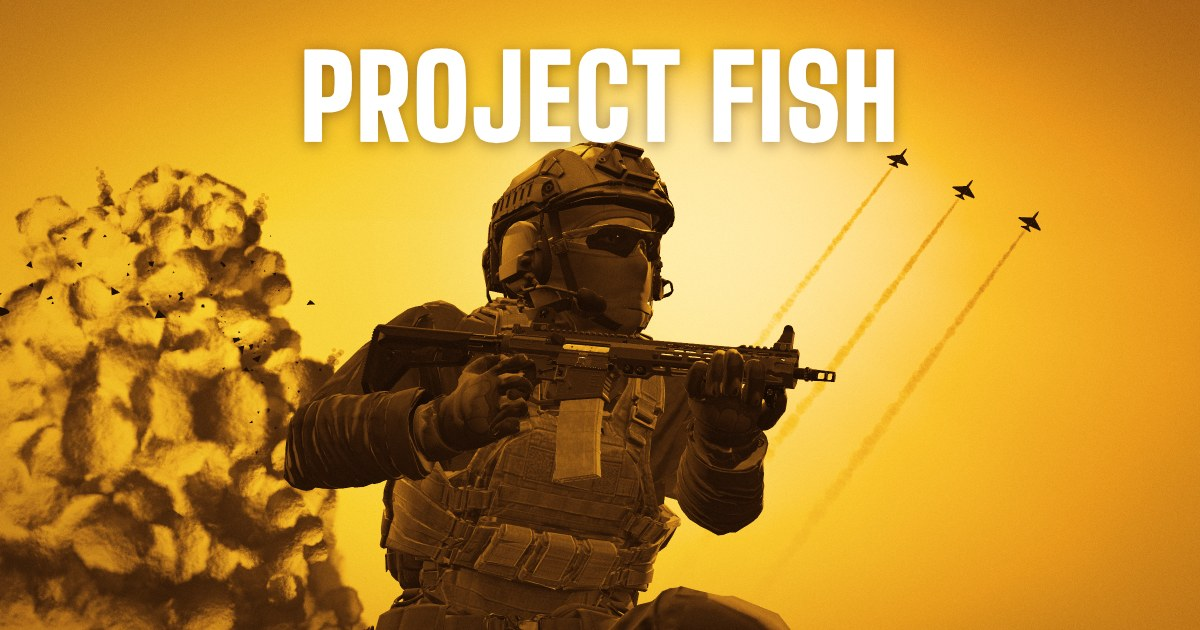
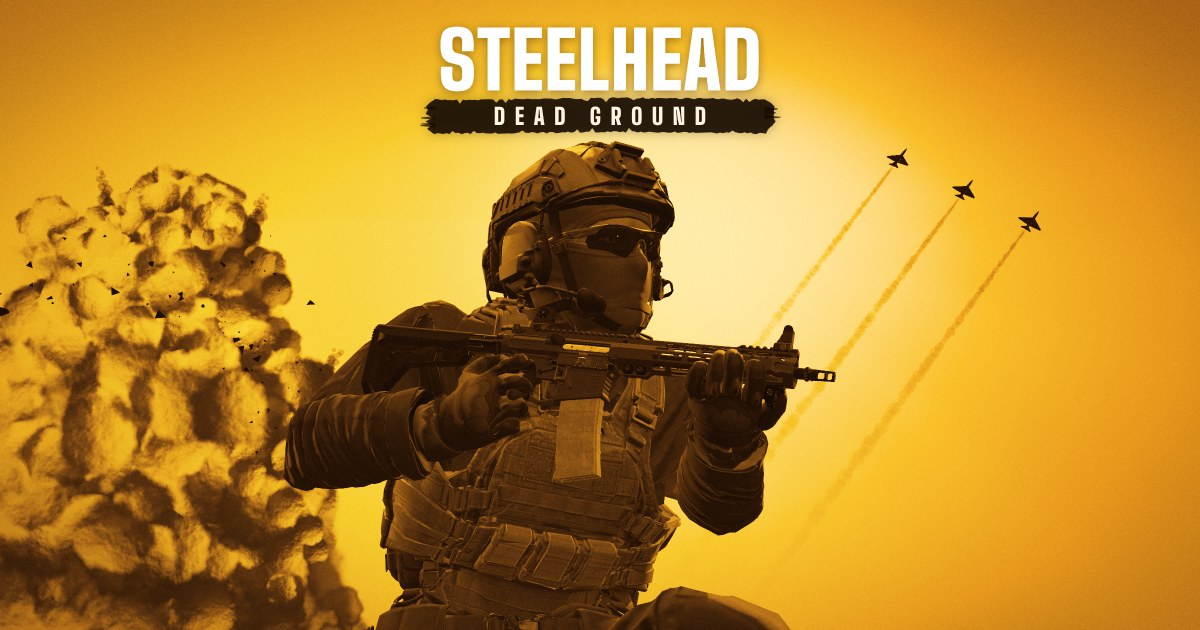
Copy e60a32e: the game is now Steelhead: Dead Ground (title, cover and arcade tile)
Claude-Session: https://claude.ai/code/session_01BFsvpXDjNXk4wDfLxkJjEb

Changed region(s): [[0.2467, 0.0302, 0.7708, 0.2413]]

diff --git a/games.js b/games.js
@@ -1,4 +1,4 @@
-// The test site's list of games: Project Fish (in project-fish/ here) among every game on the real arcade.
+// The test site's list of games: Steelhead: Dead Ground (in project-fish/ here) among every game on the real arcade.
 // The other games are copied from the live games.js (title, category, tagline, badges); their covers load from
 // the real site and their tiles open the real site's play page for them (href). Nothing here needs a server:
 // no accounts, no live counters, no stat() functions.
@@ -19,7 +19,7 @@ function readSave(key, json) {
 window.GAMES = [
   {
     id: "project-fish",
-    title: "Project Fish",
+    title: "Steelhead: Dead Ground",
     category: "Shooter",
     tagline: "An early look at a first-person shooter: twelve real guns, your own loadout and outfit, and guns taken apart part by part.",
     description: "Phase 1 of a multiplayer first-person shooter. Sprint, slide, climb and dive round a test range with twelve guns, from pistols to the AK-74M and the SPAS-12, change your outfit and attachments, and watch guns taken apart.",
@@ -301,7 +301,7 @@ window.GAMES = [
 
 // What's new on the home page, newest first
 window.NEWS = [
-  {"date":"2026-11-09","game":"project-fish","text":"New game: Project Fish. An early look at a first-person shooter with twelve guns, a loadout and gun breakdowns."},
+  {"date":"2026-11-09","game":"project-fish","text":"New game: Steelhead: Dead Ground. An early look at a first-person shooter with twelve guns, a loadout and gun breakdowns."},
   {"date":"2026-11-10","game":"turn-turn-turn","text":"Turn! Turn! TURN! 1.2.1: fixed versus calls showing \"undefined\" on the driver's screen instead of the navigator's call."},
   {"date":"2026-11-09","game":"turn-turn-turn","text":"Turn! Turn! TURN! 1.2: quick match finds you a crew partner or a whole race, and the new versus mode puts 4 to 6 players in crews of two on the same stage at once (just for fun, not on the leaderboard). Versus drivers can wind the window down and show the car behind what they think of it."},
   {"date":"2026-11-09","game":"turn-turn-turn","text":"Turn! Turn! TURN! 1.1.1: fixed the main menu popping up over a running stage for the player who joined the crew, plus a few smaller crew fixes."},
@@ -314,7 +314,7 @@ window.NEWS = [
 
 // What this browser has played, for "Continue playing" and the NEW / UPDATED badges, worked out as the real
 // site does. This site shares its browser storage with the real arcade (same address), so it reads the real
-// site's list ('arcade-played') but only ever writes its own ('arcade-test-played'), for Project Fish.
+// site's list ('arcade-played') but only ever writes its own ('arcade-test-played'), for Steelhead: Dead Ground.
 window.Arcade = {
   played() { return Object.assign({}, readSave('arcade-played', true) || {}, readSave('arcade-test-played', true) || {}); },
   markPlayed(id) {
@@ -336,5 +336,5 @@ window.Arcade = {
   stat() { return null; },
 };
 
-// Where a game's tile goes: the real site's play page, or this site's for Project Fish
+// Where a game's tile goes: the real site's play page, or this site's for Steelhead: Dead Ground
 window.playUrl = g => g.href || 'play.html?game=' + encodeURIComponent(g.id);

diff --git a/index.html b/index.html
@@ -20,7 +20,7 @@
 })();
 </script>
 <title>The Arcade · test site</title>
-<meta name="description" content="Test site: a preview of Project Fish on The Arcade.">
+<meta name="description" content="Test site: a preview of Steelhead: Dead Ground on The Arcade.">
 <meta name="robots" content="noindex">
 <meta name="theme-color" content="#0f0d1f">
 <link rel="icon" href="logo.svg" type="image/svg+xml">
@@ -113,7 +113,7 @@
 
 <footer class="foot">
   <p>The Arcade · <span id="count"></span></p>
-  <p class="test-note">Test site: preview of Project Fish on The Arcade. The other games open on the <a href="https://noah-and-lars.github.io/projects/">real arcade</a>.</p>
+  <p class="test-note">Test site: preview of Steelhead: Dead Ground on The Arcade. The other games open on the <a href="https://noah-and-lars.github.io/projects/">real arcade</a>.</p>
 </footer>
 
 <script src="games.js?v=1"></script>
@@ -125,7 +125,7 @@ let active = 'All';
 
 $('count').textContent = GAMES.length + (GAMES.length === 1 ? ' game' : ' games');
 
-// Featured: Project Fish (pinned, the way the real site pins its newest release)
+// Featured: Steelhead: Dead Ground (pinned, the way the real site pins its newest release)
 function renderFeature() {
   const g = byId['project-fish'] || [...GAMES].sort((a, b) => Date.parse(b.updated) - Date.parse(a.updated))[0];
   const badge = Arcade.badge(g);
@@ -140,7 +140,7 @@ function renderFeature() {
       <span class="btn big"><span aria-hidden="true">▶</span> Play now</span>
     </div>`;
   f.querySelector('img').src = g.thumb;
-  f.querySelector('.eyebrow').textContent = g.id === 'project-fish' ? 'NEW GAME: Project Fish' : badge === 'NEW' ? 'New game' : badge === 'UPDATED' ? 'Just updated' : 'Featured';
+  f.querySelector('.eyebrow').textContent = g.id === 'project-fish' ? 'NEW GAME: Steelhead' : badge === 'NEW' ? 'New game' : badge === 'UPDATED' ? 'Just updated' : 'Featured';
   f.querySelector('h1').textContent = g.title;
   f.querySelector('.feature-tag').textContent = g.tagline;
   const meta = f.querySelector('.feature-meta');
@@ -202,7 +202,7 @@ function renderNews() {
 
 function render() {
   const q = $('search').value.trim().toLowerCase();
-  // the real site's order for the All games grid, with Project Fish first
+  // the real site's order for the All games grid, with Steelhead: Dead Ground first
   const FIRST = ['project-fish', 'siege', 'cube-assault', 'havoc-bay', 'turn-turn-turn', 'krill-dive', 'gamble-your-life-away', 'card-royale', 'uno', 'russian-roulette', 'free-criminal', 'football', 'chess', 'poly-racer', 'rocket-rivals', 'bull-run', 'cube-tower-defense', 'block-drop'];
   const rank = g => { const i = FIRST.indexOf(g.id); return i < 0 ? FIRST.length + GAMES.indexOf(g) : i; };
   const list = [...GAMES].sort((a, b) => rank(a) - rank(b)).filter(g =>

diff --git a/project-fish/index.html b/project-fish/index.html
@@ -3,12 +3,12 @@
   <head>
     <meta charset="utf-8" />
     <meta name="viewport" content="width=device-width, initial-scale=1" />
-    <title>Project Fish</title>
-    <meta property="og:title" content="Project Fish">
+    <title>Steelhead: Dead Ground</title>
+    <meta property="og:title" content="Steelhead: Dead Ground">
     <meta property="og:image" content="assets/cover/og.jpg">
     <meta property="og:image:width" content="1200">
     <meta property="og:image:height" content="630">
-    <meta name="description" content="Project Fish: a tactical first-person shooter for the browser, built from scratch with three.js." />
+    <meta name="description" content="Steelhead: Dead Ground, a tactical first-person shooter for the browser, built from scratch with three.js." />
     <meta name="theme-color" content="#050506" />
     <link rel="preconnect" href="https://fonts.googleapis.com" />
     <link rel="preconnect" href="https://fonts.gstatic.com" crossorigin />
@@ -38,7 +38,7 @@
       <div class="menu-left">
         <header class="menu-brand">
           <p class="menu-kicker">Tactical shooter <span>·</span> in the browser</p>
-          <h1 class="menu-title"><span class="word">Project</span> <span class="word">Fish</span></h1>
+          <h1 class="menu-title"><span class="menu-title-name">Steelhead</span><span class="menu-title-colon">: </span><span class="menu-title-sub">Dead Ground</span></h1>
           <p class="menu-tag"><span>Phase 1</span> Baseplate</p>
         </header>
         <nav class="menu-list" aria-label="Main menu">
@@ -57,7 +57,7 @@
         </nav>
         <p class="menu-status" role="status"></p>
       </div>
-      <div class="menu-version"><span>Project Fish · Phase 1</span><span class="menu-build"></span></div>
+      <div class="menu-version"><span>Steelhead: Dead Ground · Phase 1</span><span class="menu-build"></span></div>
       <div class="menu-keys" aria-hidden="true"><span><kbd>↑</kbd><kbd>↓</kbd> Select</span><span><kbd>Enter</kbd> Choose</span><span><kbd>Esc</kbd> Back</span></div>
 
       <section class="menu-panel" data-panel="controls" role="dialog" aria-label="Controls" tabindex="-1" hidden>

diff --git a/project-fish/src/menu/menu.css b/project-fish/src/menu/menu.css
@@ -132,7 +132,14 @@
   color: var(--menu-dim);
 }
 
+/* The title: the series name, STEELHEAD, big in the stencil; under it the
+   game's own name, DEAD GROUND, smaller and widely spaced, with a red rule
+   running on to the end of the big word (the title is only as wide as
+   STEELHEAD, so the rule always ends under its last letter). */
 .menu-title {
+  display: inline-flex;
+  flex-direction: column;
+  align-items: stretch;
   margin: 0;
   font: 900 clamp(64px, 7.6vw, 156px) / 0.84 var(--menu-title-font);
   letter-spacing: 0.012em;
@@ -142,16 +149,47 @@
   text-shadow: 0 0 34px rgba(255, 210, 190, 0.08), 0 2px 0 rgba(0, 0, 0, 0.35);
 }
 
-/* "FISH" a little warmer, as if lit by the red light. */
-.menu-title .word + .word {
+.menu-title-name {
+  display: block;
+}
+
+/* Read out as "Steelhead: Dead Ground", not shown. */
+.menu-title-colon {
+  position: absolute;
+  width: 1px;
+  height: 1px;
+  overflow: hidden;
+  clip-path: inset(50%);
+  white-space: nowrap;
+}
+
+.menu-title-sub {
+  display: flex;
+  align-items: center;
+  gap: 0.5em;
+  margin: 0.62em 0 0 0.16em;
+  font: 700 clamp(17px, 1.5vw, 31px) / 1 var(--menu-ui-font);
+  letter-spacing: 0.46em;
   color: #f3e6df;
+  text-shadow: 0 1px 0 rgba(0, 0, 0, 0.5);
+}
+
+.menu-title-sub::after {
+  content: '';
+  flex: 1 1 auto;
+  min-width: 1.2em;
+  height: 0.16em;
+  max-height: 4px;
+  min-height: 2px;
+  background: var(--menu-red);
+  box-shadow: 0 0 12px rgba(224, 53, 43, 0.55);
 }
 
 .menu-tag {
   display: flex;
   align-items: center;
   gap: 10px;
-  margin: 14px 0 0 4px;
+  margin: 20px 0 0 4px;
   font: 600 clamp(11px, 0.78vw, 15px) / 1 var(--menu-ui-font);
   letter-spacing: 0.3em;
   text-transform: uppercase;
@@ -590,7 +628,11 @@ body.menu-visible #photo-hint {
 
   .menu-title {
     font-size: clamp(54px, 17vw, 96px);
-    white-space: normal;
+  }
+
+  .menu-title-sub {
+    font-size: clamp(14px, 4.4vw, 22px);
+    letter-spacing: 0.42em;
   }
 
   .menu-kicker {

diff --git a/play.html b/play.html
@@ -19,7 +19,7 @@
 })();
 </script>
 <title>The Arcade · test site</title>
-<meta name="description" content="Test site: a preview of Project Fish on The Arcade.">
+<meta name="description" content="Test site: a preview of Steelhead: Dead Ground on The Arcade.">
 <meta name="robots" content="noindex">
 <meta name="theme-color" content="#0a0916">
 <link rel="icon" href="logo.svg" type="image/svg+xml">
@@ -57,7 +57,7 @@
     <h2 class="sec-h">How to play</h2>
     <ul id="keys" class="keys"></ul>
     <p class="hint">Click the game if the keys don't respond. <a id="newtab" target="_blank" rel="noopener">Open in its own tab</a></p>
-    <p class="hint">Test site: preview of Project Fish on The Arcade. The other games open on the <a href="https://noah-and-lars.github.io/projects/">real arcade</a>.</p>
+    <p class="hint">Test site: preview of Steelhead: Dead Ground on The Arcade. The other games open on the <a href="https://noah-and-lars.github.io/projects/">real arcade</a>.</p>
   </section>
 
   <h2 class="sec-h more-h">More games</h2>
@@ -67,7 +67,7 @@
 <script src="games.js?v=1"></script>
 <script>
 // The real play page's code, minus accounts, cloud saves and the live counts. Only games on this site
-// (Project Fish) play here; any other id goes to the real site's page for it.
+// (Steelhead: Dead Ground) play here; any other id goes to the real site's page for it.
 const $ = id => document.getElementById(id);
 const id = new URLSearchParams(location.search).get('game');
 const index = GAMES.findIndex(g => g.id === id);

diff --git a/project-fish/src/loadoutMenu.js b/project-fish/src/loadoutMenu.js
@@ -374,7 +374,7 @@ export class LoadoutMenu {
     const head = el('header', 'lo-head');
     const brand = el('div', 'lo-brand');
     const kicker = el('p', 'lo-kicker');
-    kicker.append('Project Fish ', el('span', '', '·'), ' Operator');
+    kicker.append('Steelhead ', el('span', '', '·'), ' Operator');
     brand.append(kicker, el('h1', 'lo-title', this.view === 'outfit' ? 'Customization' : 'Loadout'));
     head.append(brand);
     if (this.outfitMenu) {
@@ -602,7 +602,7 @@ export class LoadoutMenu {
     const head = el('header', 'lo-head');
     const brand = el('div', 'lo-brand');
     const kicker = el('p', 'lo-kicker');
-    kicker.append('Project Fish ', el('span', '', '·'), ' Films');
+    kicker.append('Steelhead ', el('span', '', '·'), ' Films');
     brand.append(kicker, el('h1', 'lo-title', 'Breakdowns'));
     head.append(brand);
     this.ui.append(head);

diff --git a/project-fish/src/main.js b/project-fish/src/main.js
@@ -417,7 +417,7 @@ async function playOrResume() {
   await input.lock();
   if (document.pointerLockElement === renderer.domElement || !mainMenu.visible) return;
   const touch = window.matchMedia('(pointer: coarse)').matches && !window.matchMedia('(any-pointer: fine)').matches;
-  mainMenu.setStatus(touch ? 'Project Fish needs a keyboard and mouse.' : 'The browser didn’t give the game the mouse yet: click again.');
+  mainMenu.setStatus(touch ? 'Steelhead: Dead Ground needs a keyboard and mouse.' : 'The browser didn’t give the game the mouse yet: click again.');
 }
 
 // The loadout menu (or its breakdowns picker on its own) over the main

diff --git a/project-fish/src/showcase/cinematic/film.js b/project-fish/src/showcase/cinematic/film.js
@@ -1294,7 +1294,7 @@ export class Film {
       k = Math.min(clamp01((local - 0.6) / 0.8), clamp01((shot.film - 0.4 - local) / 0.6));
       if (this.titleMode !== 'open') {
         this.titleMode = 'open';
-        this.titleName.textContent = 'PROJECT FISH';
+        this.titleName.textContent = 'STEELHEAD';
         this.titleSub.textContent = FILM.subtitle;
       }
     } else if (shot.title === 'end') {

diff --git a/README.md b/README.md
@@ -1,16 +1,16 @@
-# Project Fish (test site)
+# Steelhead: Dead Ground (test site)
 
-A test copy of Project Fish, published here so it can be seen and played before it goes live on The Arcade
+A test copy of Steelhead: Dead Ground, published here so it can be seen and played before it goes live on The Arcade
 (https://noah-and-lars.github.io/projects/).
 
 Open it at https://noah-and-lars.github.io/project-fish-test/
 
 - **The home page** (`index.html`, with `arcade.css`, `games.js`, the logo and icons) looks like The Arcade's home page,
-  so you can see Project Fish's cover among the other games: the featured banner, the game grid with search and
+  so you can see Steelhead: Dead Ground's cover among the other games: the featured banner, the game grid with search and
   category filters, the NEW and UPDATED badges and "What's new". The other games' covers load from the real arcade,
   and their tiles open them there. Nothing on this site connects to the arcade's server: no accounts, no chat, no
   live player counts (the Global chat, Players and Sign in links go to the real arcade).
-- **The play page** (`play.html?game=project-fish`, with `intro.js`) plays Project Fish in a frame the way the real
+- **The play page** (`play.html?game=project-fish`, with `intro.js`) plays Steelhead: Dead Ground in a frame the way the real
   arcade's play page does, with the keys under it.
 - **The game** is in `project-fish/` (its `index.html`, `style.css`, `src/`, `assets/` and `package.json`). It can also
   be opened on its own at https://noah-and-lars.github.io/project-fish-test/project-fish/
